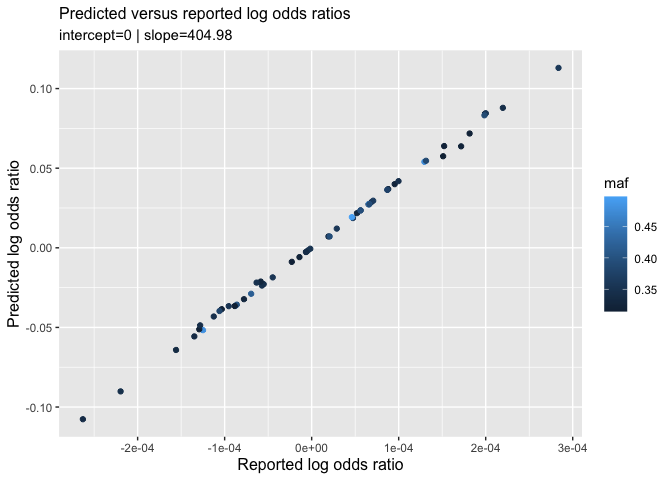
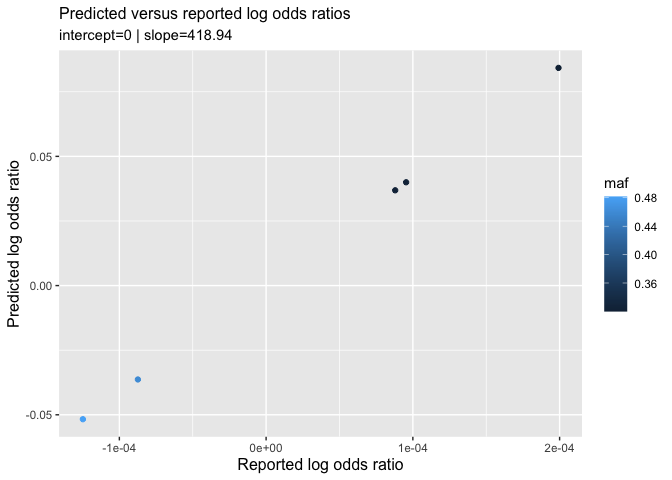
edited readme

diff --git a/README.md b/README.md
@@ -353,11 +353,6 @@ example to just the first 20 SNPs.
 ``` r
 Dat1<-Dat[1:5,]
 Pred<-predict_lnor_sh(dat=Dat1)
-#> [1] "Analysing SNP 1 of 5"
-#> [1] "Analysing SNP 2 of 5"
-#> [1] "Analysing SNP 3 of 5"
-#> [1] "Analysing SNP 4 of 5"
-#> [1] "Analysing SNP 5 of 5"
 Plot5<-make_plot_predlnor(dat=Pred)
 Plot5
 ```
@@ -392,99 +387,51 @@ expectation
 snplist<-make_snplist(efo = "kidney cancer",snplist_user=instruments$rsid)
 ukb <- data.frame(ieugwasr::associations(id="ukb-b-1316", variants=snplist,proxies=0),stringsAsFactors=FALSE)
 Ukb<-format_data(dat=ukb,outcome="Kidney cancer",population="European",pmid="ukb-b-1316",ncase=1114,ncontrol=461896,study="UKB",UKbiobank=TRUE,rsid="rsid",effect_allele="ea",other_allele="nea",lnor="beta",se="se",eaf="eaf",p="p",effect_allele_confirmed=TRUE,all_summary_stats=TRUE,ID=145,efo = "kidney cancer")
-Pred<-predict_lnor_sh(dat=Ukb)
-#> [1] "Analysing SNP 1 of 56"
-#> [1] "Analysing SNP 2 of 56"
-#> [1] "Analysing SNP 3 of 56"
-#> [1] "Analysing SNP 4 of 56"
-#> [1] "Analysing SNP 5 of 56"
-#> [1] "Analysing SNP 6 of 56"
-#> [1] "Analysing SNP 7 of 56"
-#> [1] "Analysing SNP 8 of 56"
-#> [1] "Analysing SNP 9 of 56"
-#> [1] "Analysing SNP 10 of 56"
-#> [1] "Analysing SNP 11 of 56"
-#> [1] "Analysing SNP 12 of 56"
-#> [1] "Analysing SNP 13 of 56"
-#> [1] "Analysing SNP 14 of 56"
-#> [1] "Analysing SNP 15 of 56"
-#> [1] "Analysing SNP 16 of 56"
-#> [1] "Analysing SNP 17 of 56"
-#> [1] "Analysing SNP 18 of 56"
-#> [1] "Analysing SNP 19 of 56"
-#> [1] "Analysing SNP 20 of 56"
-#> [1] "Analysing SNP 21 of 56"
-#> [1] "Analysing SNP 22 of 56"
-#> [1] "Analysing SNP 23 of 56"
-#> [1] "Analysing SNP 24 of 56"
-#> [1] "Analysing SNP 25 of 56"
-#> [1] "Analysing SNP 26 of 56"
-#> [1] "Analysing SNP 27 of 56"
-#> [1] "Analysing SNP 28 of 56"
-#> [1] "Analysing SNP 29 of 56"
-#> [1] "Analysing SNP 30 of 56"
-#> [1] "Analysing SNP 31 of 56"
-#> [1] "Analysing SNP 32 of 56"
-#> [1] "Analysing SNP 33 of 56"
-#> [1] "Analysing SNP 34 of 56"
-#> [1] "Analysing SNP 35 of 56"
-#> [1] "Analysing SNP 36 of 56"
-#> [1] "Analysing SNP 37 of 56"
-#> [1] "Analysing SNP 38 of 56"
-#> [1] "Analysing SNP 39 of 56"
-#> [1] "Analysing SNP 40 of 56"
-#> [1] "Analysing SNP 41 of 56"
-#> [1] "Analysing SNP 42 of 56"
-#> [1] "Analysing SNP 43 of 56"
-#> [1] "Analysing SNP 44 of 56"
-#> [1] "Analysing SNP 45 of 56"
-#> [1] "Analysing SNP 46 of 56"
-#> [1] "Analysing SNP 47 of 56"
-#> [1] "Analysing SNP 48 of 56"
-#> [1] "Analysing SNP 49 of 56"
-#> [1] "Analysing SNP 50 of 56"
-#> [1] "Analysing SNP 51 of 56"
-#> [1] "Analysing SNP 52 of 56"
-#> [1] "Analysing SNP 53 of 56"
-#> [1] "Analysing SNP 54 of 56"
-#> [1] "Analysing SNP 55 of 56"
-#> [1] "Analysing SNP 56 of 56"
+Pred<-predict_lnor_sh(dat=Ukb[1:5,])
 Plot5_2<-make_plot_predlnor(dat=Pred)
 Plot5_2
 ```
 
 <img src="man/figures/README-make_plot_predlnor2-1.png" width="100%" />
+
 Unsurprisingly there is a strong positive correlation. However, the
 slope is 400, when we expect a slope of 1. In fact, further
-investigation reveals that Open GWAS dataset ukb-b-1316 has been
-generated using a linear mixed model. In other words, the results were
-derived from a model where kidney cancer case-control status (controls
-coded 1 and cases coded 2) was regressed on SNP genotype (additively
-coded). The effect size from this model can be interpreted as the
-absolute risk of kidney cancer per copy of the effect allele. We can
-transform this into a log odds ratio scale using the transform\_betas()
-function.
+investigation revealed that Open GWAS dataset ukb-b-1316 was generated
+using a linear model. In other words, the results were derived from a
+model where kidney cancer case-control status (controls coded 1 and
+cases coded 2) was regressed on SNP genotype (additively coded). The
+effect size from this model can be interpreted as the absolute risk of
+kidney cancer per copy of the effect allele. We can transform this into
+a log odds ratio scale using the transform\_betas() function.
 
 ``` r
 Ukb2<-transform_betas(dat=Ukb,effect="lnor",effect.se="se")
-Pred2<-predict_lnor_sh(dat=Ukb2)
+Pred2<-predict_lnor_sh(dat=Ukb2[1:5,])
+#> [1] "Analysing SNP 1 of 5"
+#> [1] "Analysing SNP 2 of 5"
+#> [1] "Analysing SNP 3 of 5"
+#> [1] "Analysing SNP 4 of 5"
+#> [1] "Analysing SNP 5 of 5"
 Plot5_3<-make_plot_predlnor(dat=Pred2)
 Plot5_3
 ```
 
+<img src="man/figures/README-make_plot_predlnor4-1.png" width="100%" />
+
 After transforming the reported effect size to a log odds ratio scale,
 we now see a slope close to 1 for the relationship with the predicted
-log odds ratio. We suggest that any dataset with an unsual intercept or
-with a slope very different from 1 (e.g. \<0.8 or \>1.2) should be
-investigated by the user for potential problems. In the glioma example,
-the slope and intercept look reasonably close to what we’d expect. In
-the kidney cancer example, the slope was different from 1 because the
-reported effect sizes had not been generated in a logistic regression
-model. Other factors that could cause the slope to differ from 1
-include: the impact of covariate adjustment in the original GWAS,
-deviations from Hardy Weinberg equilibrium, mismatches between reported
-and actual allele frequency or mismatches between reported and actual
-SNP-level sample size.
+log odds ratio. More generally, we suggest that any dataset with an
+unsual intercept or with a slope very different from 1 (e.g. \<0.8 or
+\>1.2) should be investigated by the user for potential problems. In the
+glioma example, the slope and intercept look reasonably close to what
+we’d expect. In the kidney cancer example, the slope was very
+different from 1 because the reported effect sizes had not been
+generated in a logistic regression model. Other factors that could cause
+the slope to differ from 1 include: the impact of covariate adjustment
+in the original GWAS, deviations from Hardy Weinberg equilibrium,
+mismatches between reported and actual allele frequency for some or all
+SNPs or mismatches between reported and effective SNP-level sample size
+for some or all SNPs.
 
 Let’s now return back to the glioma dataset. In the next example we
 generate ZZ plots, which can be used to flag SNPs with P values that
